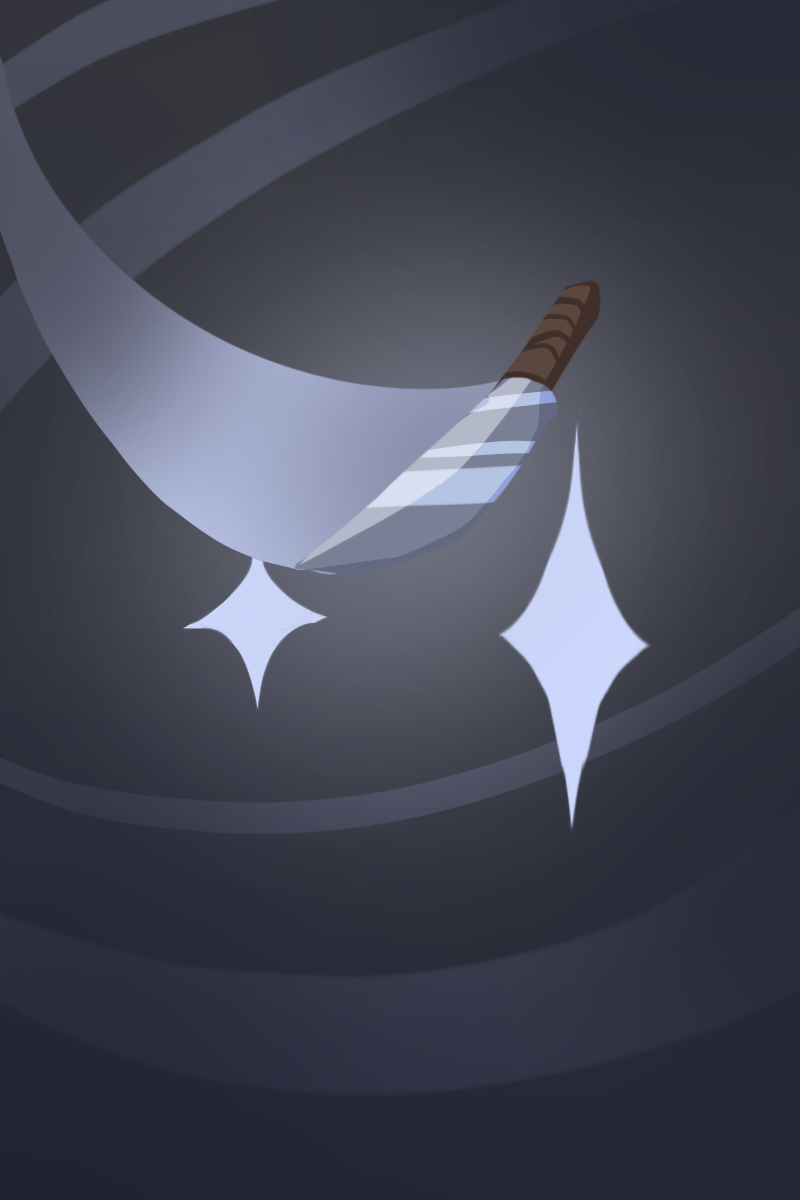
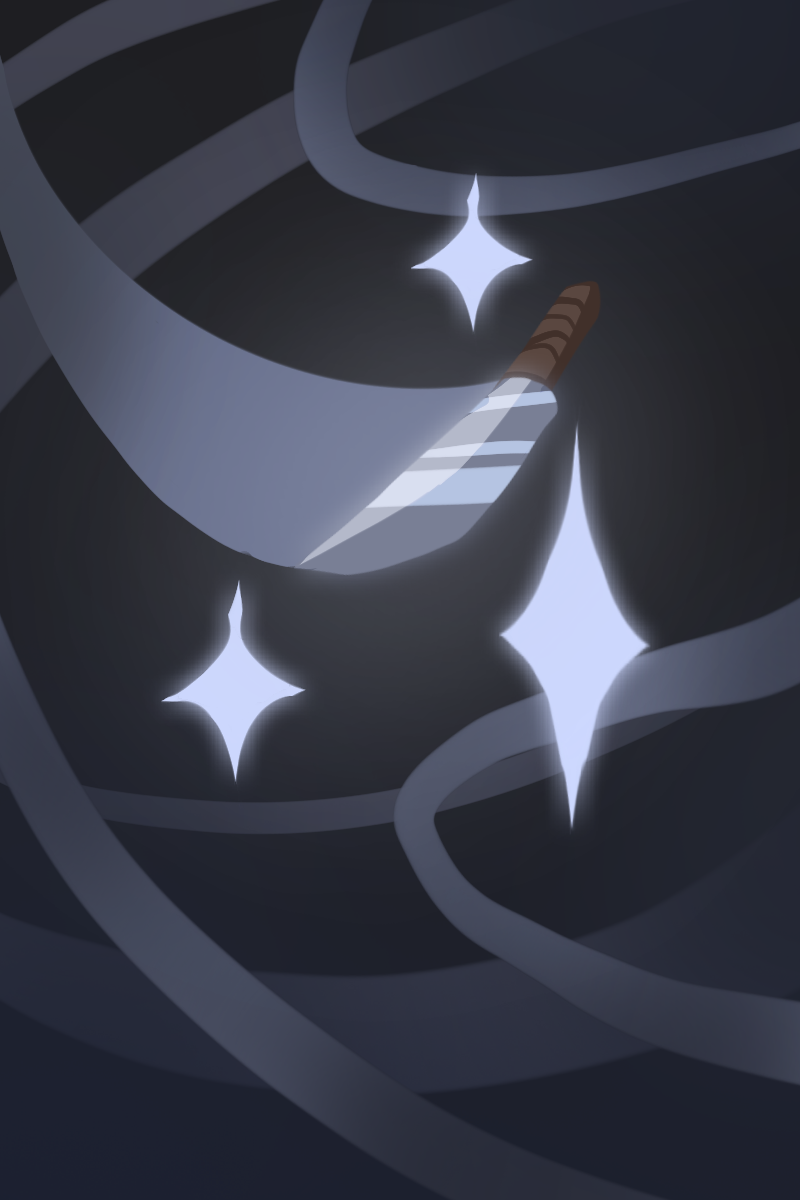
Updated art and card clicking mechanic

diff --git a/react-swc/src/views/BattleView.jsx b/react-swc/src/views/BattleView.jsx
@@ -131,7 +131,10 @@ export const BattleView = observer(() => {
 
 
   return (
-    <div className='battleContainer'>
+    <div
+      className='battleContainer'
+      onClick={() => setSelectedCardIdx(null)}
+    >
       {/* Top Bar: Synergy (left) and Turn (center) */}
       <div className='top-bar'>
         <div className='synergy'>
@@ -205,9 +208,13 @@ export const BattleView = observer(() => {
              
           <button
               key={idx}
-              onClick={() => {
-                if (refreshMode) toggleRefreshPick(idx);
-                else setSelectedCardIdx(idx);
+              onClick={(e) => {
+                e.stopPropagation();
+                if (refreshMode) {
+                  toggleRefreshPick(idx);
+                } else {
+                  setSelectedCardIdx(prev => (prev === idx ? null : idx));
+                }
               }}
               className={`card card--fullart
                 ${idx === selectedCardIdx ? 'selectedCard' : ''}
